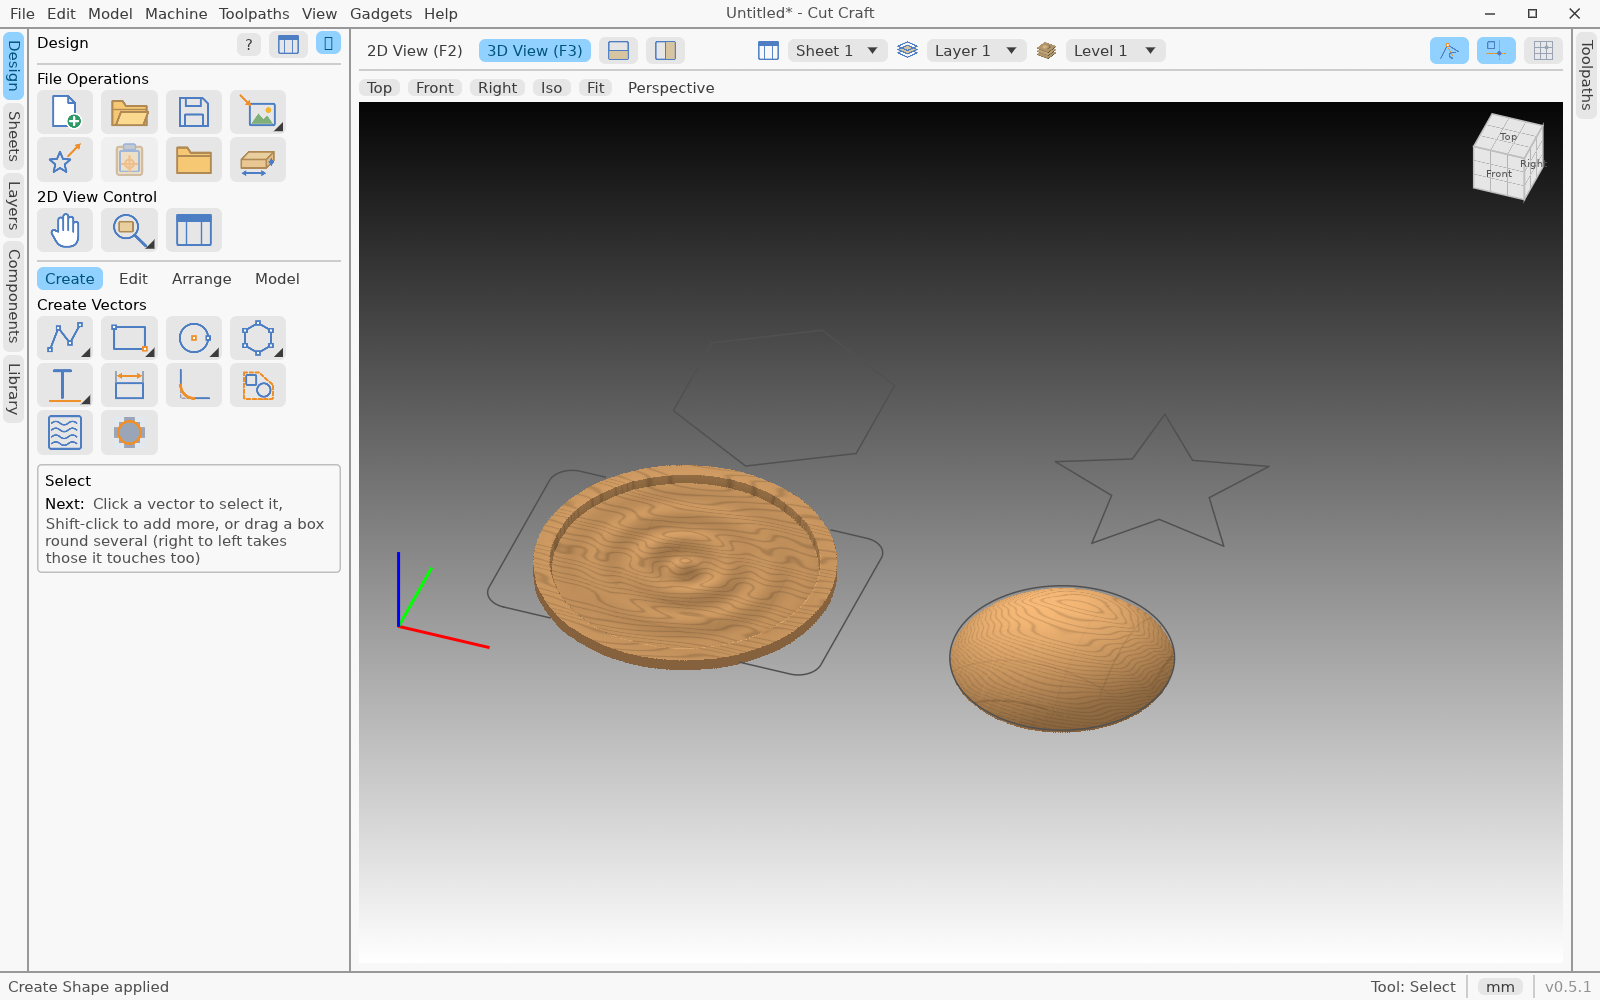
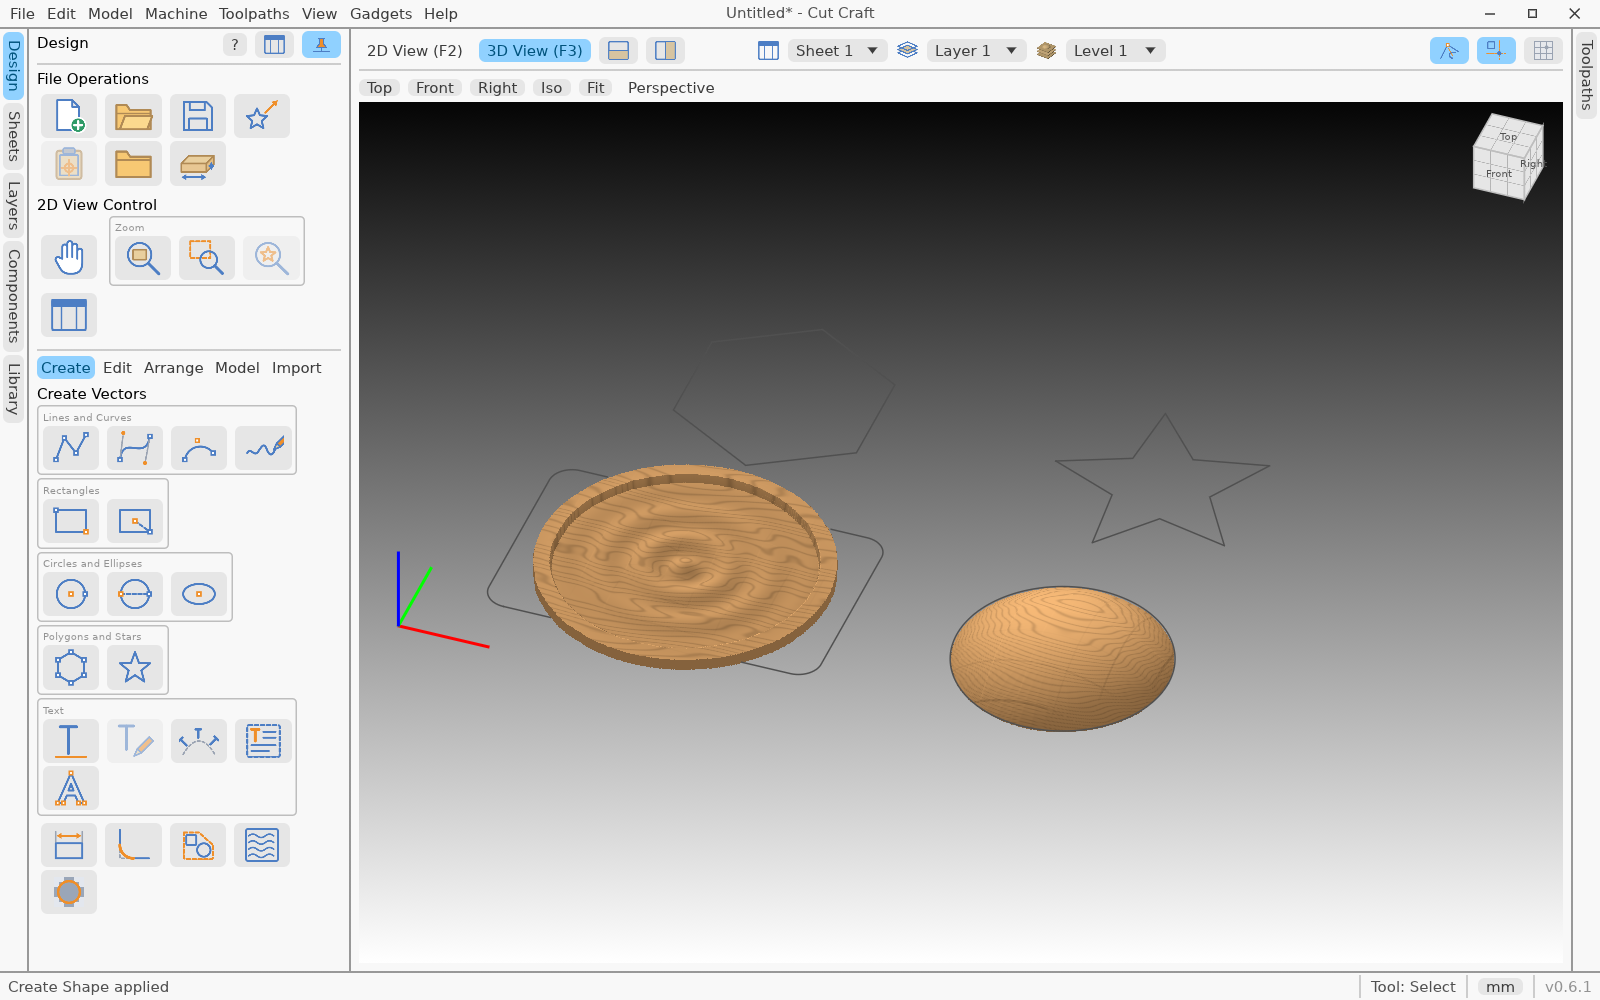
fix: draw the pin button instead of the 📌 emoji, and refresh the README pictures
The page and Rail pin was the 📌 emoji, which egui 0.37 no longer bundles a font for, so on
most systems it drew as an empty box. It is now a drawn icon from scripts/make_icons.py:
leaning while loose, upright and pushed in (orange head) once pinned.

The app's fonts now fall back to egui's Hack (arrows, ▸ in menu paths) and its monochrome
emoji fonts (⚠, ★), so those no longer depend on the system font. The Remove buttons use ×
instead of ✕, which none of the bundled fonts has. A new test checks that every non-ASCII
character in the app's strings has a glyph in the bundled fonts alone.

README screenshots retaken with `cut-craft --screenshots docs/screenshots`, and that step is
now in BUILDING.md's release steps.

Claude-Session: https://claude.ai/code/session_01Uqr4BHPnumtK5i1d3BTN7C

diff --git a/crates/app/src/app/tests.rs b/crates/app/src/app/tests.rs
@@ -8932,3 +8932,109 @@ fn coarser_surfaces_are_made_from_the_fine_one_on_another_thread_and_kept() {
     assert!(coarse.solid.is_some(), "with its walls");
     assert!(coarse.surface.triangles() < kept.at(120).expect("fine").surface.triangles());
 }
+
+/// Every non-ASCII character in the app's strings, with where it first appears: the text in
+/// `"…"` literals of `src`, comments left out. `app/mac.rs` is left out too: its key symbols
+/// (⌘ ⌥ ⌫ …) are only shown on a Mac, in the Mac's own font, which has them.
+fn label_characters() -> std::collections::BTreeMap<char, String> {
+    fn walk(dir: &std::path::Path, files: &mut Vec<std::path::PathBuf>) {
+        for entry in std::fs::read_dir(dir).unwrap() {
+            let path = entry.unwrap().path();
+            if path.is_dir() {
+                walk(&path, files);
+            } else if path.extension().is_some_and(|e| e == "rs") {
+                files.push(path);
+            }
+        }
+    }
+    let src = std::path::Path::new(env!("CARGO_MANIFEST_DIR")).join("src");
+    let mut files = Vec::new();
+    walk(&src, &mut files);
+    files.sort();
+    let mut found = std::collections::BTreeMap::new();
+    for file in files {
+        let rel = file
+            .strip_prefix(&src)
+            .unwrap()
+            .to_string_lossy()
+            .replace('\\', "/");
+        if rel == "app/mac.rs" || rel.ends_with("tests.rs") {
+            continue;
+        }
+        let text = std::fs::read_to_string(&file).unwrap();
+        // inside a string literal, which may run over several lines
+        let mut in_string = false;
+        for (n, line) in text.lines().enumerate() {
+            let mut chars = line.chars().peekable();
+            while let Some(c) = chars.next() {
+                if in_string {
+                    match c {
+                        '\\' => {
+                            chars.next();
+                        }
+                        '"' => in_string = false,
+                        c if !c.is_ascii() => {
+                            found.entry(c).or_insert_with(|| format!("{rel}:{}", n + 1));
+                        }
+                        _ => {}
+                    }
+                } else if c == '"' {
+                    in_string = true;
+                } else if c == '\'' {
+                    // a char literal such as '"', or a lifetime: step over a quoted quote
+                    if chars.peek() == Some(&'"') {
+                        chars.next();
+                    }
+                } else if c == '/' && chars.peek() == Some(&'/') {
+                    break;
+                }
+            }
+        }
+    }
+    found
+}
+
+#[test]
+fn label_characters_are_found_in_strings_only() {
+    let found = label_characters();
+    assert!(found.contains_key(&'…'), "{found:?}");
+    assert!(found.contains_key(&'▸'), "{found:?}");
+    assert!(
+        !found.contains_key(&'⌘'),
+        "the Mac's key symbols are its own font's"
+    );
+}
+
+/// Every non-ASCII character the app writes has a glyph in egui's own fonts, which go with the
+/// program everywhere: a system font that lacks one then still draws it, not an empty box
+/// (the 📌 pin button once did, on Linux and Windows).
+#[test]
+fn every_label_character_has_a_glyph() {
+    let ctx = egui::Context::default();
+    ctx.set_fonts(super::ui_fonts(None));
+    let _ = headless(ctx.run_ui(RawInput::default(), |_| {}));
+    let font = egui::FontId::proportional(14.0);
+    let missing: Vec<String> = label_characters()
+        .into_iter()
+        .filter(|&(c, _)| !ctx.fonts_mut(|f| f.has_glyph(&font, c)))
+        .map(|(c, at)| format!("{c} (U+{:04X}) at {at}", u32::from(c)))
+        .collect();
+    assert!(
+        missing.is_empty(),
+        "no glyph in egui's fonts, so these draw as empty boxes; draw an icon \
+         (scripts/make_icons.py) or pick a character they have:\n{}",
+        missing.join("\n")
+    );
+}
+
+/// The push-pin is drawn, loose and pinned, not left to a font's 📌.
+#[test]
+fn the_pin_buttons_are_drawn_icons() {
+    let h = Harness::new();
+    for icon in [super::panels::PIN_ICON, super::panels::PINNED_ICON] {
+        assert!(
+            h.app.icons.find(icon, "").is_some(),
+            "{icon} is in assets/icons"
+        );
+    }
+}

diff --git a/crates/app/src/app.rs b/crates/app/src/app.rs
@@ -1545,29 +1545,37 @@ fn shortcut_label<'a>(ctx: &egui::Context, text: &'a str) -> Cow<'a, str> {
     }
 }
 
+/// The app's fonts: the system's face (`system`, from [`UI_FONTS`]) first, then egui's own,
+/// which every system has. Those end with Hack, for the arrows and ▸ of menu paths, and the
+/// monochrome emoji fonts, for ⚠ and ★: a character none of them has draws as an empty box,
+/// which `every_label_character_has_a_glyph` guards against.
+fn ui_fonts(system: Option<(String, Vec<u8>, u32)>) -> egui::FontDefinitions {
+    let mut fonts = egui::FontDefinitions::default();
+    let proportional = fonts
+        .families
+        .entry(egui::FontFamily::Proportional)
+        .or_default();
+    proportional.push("Hack".to_owned());
+    if let Some((name, data, index)) = system {
+        proportional.insert(0, name.clone());
+        let mut data = egui::FontData::from_owned(data);
+        data.index = index;
+        fonts.font_data.insert(name, std::sync::Arc::new(data));
+    }
+    fonts
+}
+
 /// An easier-to-read look: a heavier system font, text and controls `text_scale` times egui's
 /// (Options ▸ Appearance ▸ Text size), and lines thicker to match; on a Mac, the Mac's own
 /// font and look ([`mac`]).
 fn readable(ctx: &egui::Context, text_scale: f32) {
     let line_scale = LINE_SCALE * text_scale / 1.15;
-    let mut fonts = egui::FontDefinitions::default();
     let families: &[&str] = if mac::is_mac(ctx) {
         &mac::UI_FONTS
     } else {
         &UI_FONTS
     };
-    if let Some((name, data, index)) = cut_craft_core::font::system_face(families) {
-        let mut data = egui::FontData::from_owned(data);
-        data.index = index;
-        fonts
-            .font_data
-            .insert(name.clone(), std::sync::Arc::new(data));
-        fonts
-            .families
-            .entry(egui::FontFamily::Proportional)
-            .or_default()
-            .insert(0, name);
-    }
+    let fonts = ui_fonts(cut_craft_core::font::system_face(families));
     ctx.set_fonts(fonts);
     ctx.all_styles_mut(|style| {
         for font in style.text_styles.values_mut() {
@@ -1779,7 +1787,7 @@ fn tool_list(
             {
                 edit = Some(current.clone());
             }
-            if ui.small_button("✕").on_hover_hint("Remove").clicked() {
+            if ui.small_button("×").on_hover_hint("Remove").clicked() {
                 remove = Some(i);
             }
         });

diff --git a/crates/app/src/app/panels.rs b/crates/app/src/app/panels.rs
@@ -12,6 +12,10 @@ use super::{
 use cut_craft_bug_report::hint::HoverHint;
 use cut_craft_core::document::{MachinedArea, Units};
 
+/// The push-pin's two drawings (`scripts/make_icons.py`).
+pub(super) const PIN_ICON: &str = "view/pin.png";
+pub(super) const PINNED_ICON: &str = "view/pinned.png";
+
 impl CutCraftApp {
     /// The Tool Database manager; its edits are kept on Apply or OK.
     pub(super) fn tool_database_window(&mut self, ctx: &egui::Context) {
@@ -494,6 +498,17 @@ impl CutCraftApp {
             ),
             None => egui::Button::new(label.to_owned()),
         }
+    }
+
+    /// The push-pin toggle: leaning while loose, upright and pushed in once pinned. Drawn
+    /// rather than the 📌 emoji, which many system fonts lack and egui drew as an empty box.
+    pub(super) fn pin_button(&self, pinned: bool, edge: f32) -> egui::Button<'static> {
+        let (icon, label) = if pinned {
+            (PINNED_ICON, "Pinned")
+        } else {
+            (PIN_ICON, "Pin")
+        };
+        self.icon_button(icon, "", label, edge).selected(pinned)
     }
 
     /// Layers, top first: visibility and lock toggles, the current layer highlighted, and

diff --git a/scripts/make_icons.py b/scripts/make_icons.py
@@ -813,6 +813,17 @@ I[vw + "solid_2d_toolpath_drawing.svg"] = lambda: [path("M5,13 A8,8 0 0 1 13,5 H
                                                    rect(12, 12, 24, 24, 1, INK, 2.5, LIGHT)]
 
 
+# the push-pin at the top of a page and the Rail's list (once the 📌 emoji, which many fonts
+# lack and drew as an empty box): leaning over when the page can slide away, upright and
+# pushed in, its head in the accent, once pinned
+def push_pin(head, needle=42):
+    return [path("M18,6 H30 M20,6 V16 L14,24 H34 L28,16 V6", INK, SW, head), line(24, 24, 24, needle, INK, SW)]
+
+
+I[vw + "pin.svg"] = lambda: [f'<g transform="rotate(40 24 26)">{"".join(push_pin("none"))}</g>']
+I[vw + "pinned.svg"] = lambda: [f'<g transform="translate(0 6)">{"".join(push_pin(ACC, 32))}</g>', line(8, 38, 40, 38, INK, SW)]
+
+
 def render(name):
     els = I[name]()
     body = "".join(e for e in els if e)

diff --git a/crates/app/src/app/layouts.rs b/crates/app/src/app/layouts.rs
@@ -239,8 +239,14 @@ impl CutCraftApp {
                 ui.horizontal(|ui| {
                     ui.strong(group.name);
                     ui.with_layout(Layout::right_to_left(Align::Center), |ui| {
-                        ui.toggle_value(&mut self.rail_pinned, "📌")
-                            .on_hover_hint("Keep this list open after picking a tool");
+                        let row = ui.spacing().interact_size.y;
+                        if ui
+                            .add(self.pin_button(self.rail_pinned, row))
+                            .on_hover_hint("Keep this list open after picking a tool")
+                            .clicked()
+                        {
+                            self.rail_pinned = !self.rail_pinned;
+                        }
                     });
                 });
                 ui.separator();

diff --git a/crates/app/src/form.rs b/crates/app/src/form.rs
@@ -864,7 +864,7 @@ fn edit_list(ui: &mut egui::Ui, item: &Kind, value: &mut Value, look: &Look) -> 
     for (i, it) in items.iter_mut().enumerate() {
         ui.horizontal(|ui| {
             changed |= edit(ui, item, it, &Value::Null, look);
-            if ui.small_button("✕").on_hover_hint("Remove").clicked() {
+            if ui.small_button("×").on_hover_hint("Remove").clicked() {
                 remove = Some(i);
             }
         });

diff --git a/crates/app/src/app/actions.rs b/crates/app/src/app/actions.rs
@@ -3518,7 +3518,7 @@ impl CutCraftApp {
             ui.with_layout(Layout::right_to_left(Align::Center), |ui| {
                 let pinned = self.pages.pinned(page);
                 pin = ui
-                    .selectable_label(pinned, "📌")
+                    .add(self.pin_button(pinned, row))
                     .on_hover_hint(if pinned {
                         "Unpin: hide this page to its side tab"
                     } else {

diff --git a/BUILDING.md b/BUILDING.md
@@ -176,22 +176,34 @@ To cut a release:
    list. The start page shows them under "What's new". Keep it to about four short lines, or
    the start page's links no longer fit and a test fails.
 
-4. `main` is protected, so the version goes in through a pull request like any other change.
-   Commit the three files on a branch and open a pull request titled `chore: version 0.6.1`:
+4. Take the README's pictures again, so they show this version in the status bar and the
+   screens as they are now:
+
+   ```bash
+   cargo run --release -p cut-craft -- --screenshots docs/screenshots
+   ```
+
+   The app opens, sets up each scene, saves it as `docs/screenshots/NN-name.png` and quits
+   (about half a minute). It needs a display: on a Linux machine without one, run it under
+   `xvfb-run -a` (packages `xvfb`, `libxkbcommon-x11-0` and `mesa-vulkan-drivers`). Look over
+   the pictures before committing them; a picture the README doesn't use can be left out.
+
+5. `main` is protected, so the version goes in through a pull request like any other change.
+   Commit the files on a branch and open a pull request titled `chore: version 0.6.1`:
 
    ```bash
    git switch -c version-0.6.1
-   git add Cargo.toml Cargo.lock crates/app/whats-new.md
+   git add Cargo.toml Cargo.lock crates/app/whats-new.md docs/screenshots
    git commit -m "Version 0.6.1"
    git push -u origin version-0.6.1
    gh pr create --title "chore: version 0.6.1" --body "Version 0.6.1"
    ```
 
-5. When CI is green, merge it. **Release tag** tags v0.6.1 on the merge and **Builds** makes
+6. When CI is green, merge it. **Release tag** tags v0.6.1 on the merge and **Builds** makes
    the macOS DMG, Linux `.tar.gz`, AppImage and Flatpak, and Windows `.zip`, signs each and
    attaches them to the release on GitHub's Releases page. Watch with `gh run list --limit 6`.
 
-6. Build the same version locally (see "Build and run locally").
+7. Build the same version locally (see "Build and run locally").
 
 ## Repository protection
 
